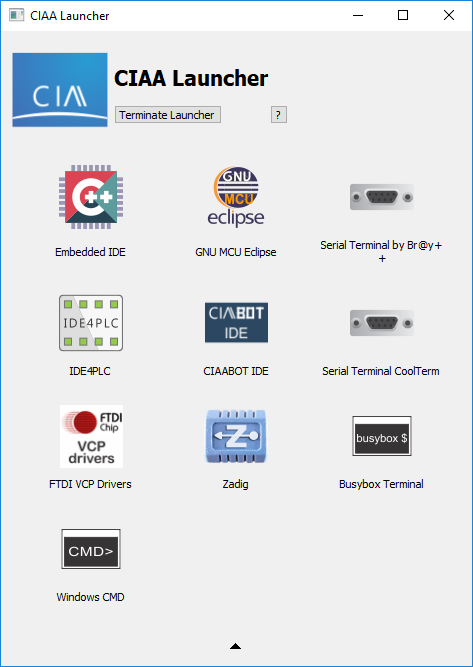
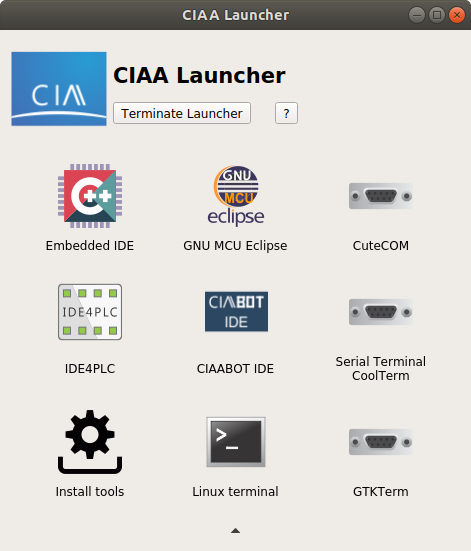
feat:complete readme

diff --git a/README.md b/README.md
@@ -33,7 +33,7 @@ The PdM_TPFinal is the highest layer and use the services of the other layer. Th
 ### Main
 This is the aplication layer. In this files the aplication use the services of the other layers to executes the states decribed on Description section.
 In the figure there is the state representation of the system.
-![alt text](https://github.com/[username]/[reponame]/blob/[branch]/image.jpg?raw=true)
+![alt text](https://github.com/mrds90/PdM_TPFinal/blob/main/docs/launcher-win.png?raw=true)
 
 ### Button
 This layer is a 4 state FSM that check the state of the asked button. Each button may be in one of the four states.
@@ -49,26 +49,29 @@ In FALLING and RISING state the FSM check for a debounce efect. If the transitio
 This layer manage the lighting and shutdown of the leds.
 
 ## Download
-Open a Terminal where you want to download this proyect and write
+Open a Terminal where you have the firwate_v3 proyects to download this proyect and write
 ```
 git clone https://github.com/mrds90/PdM_TPFinal
 ```
 ## Compile
 
 * Open the CIAA-Luncher and select the linux terminal
+
+  ![alt text](https://github.com/mrds90/PdM_TPFinal/blob/main/docs/launcher-win.png?raw=true)
   
-* Seleccionar el programa con el comando
+* use ´´´cd´´´ command and move to fimware_v3 path.
+* select the program writing:
 ```
 make select_program
 ```
-* Elegir la carpeta del repositorio descargado (PmC_Actividad3)
-* Compilar el programa el programa en la misma terminal con:
+* Choose the downladed repositorie (PdM_TPFinal)
+* Compile writing
 ```
 make all
 ```
-##  Descargar programa en edu_cia_nxp
+##  Download the firmware in the edu_cia_nxp
 
-* En la misma terminal y con la edu_ciaa_nxp conectada escribir
+* Write in the terminal
 
 ```
 make download
@@ -76,18 +79,13 @@ make download
 
 ## Help
 
-Puede no tener seleccionado la placa correcta. Para corregir esto escriba
+The selecte board could be incorrect. To resolve this you can write in the terminal
 ```
 make select_board
 ```
-y seleccione la edu_ciaa_nxp
+and select edu_ciaa_nxp
 
-Siempre debe estar en la ruta raiz de la carpeta clonada "firmware_v3" con la terminal de CIAA Launcher si desea usar los comandos.
-
-Si el orden de los LEDs no son correspondientes debe comentar el #define del simbolo EDU_CIAA_OLD. (linea 15 del archivo semaforo.c)
-```
-// #define EDU_CIAA_OLD
-```
+Always the terminal must be in the root path of firmware_v3 to use the command with CIAA Launcher terminal.
 
 ## Autor
 
